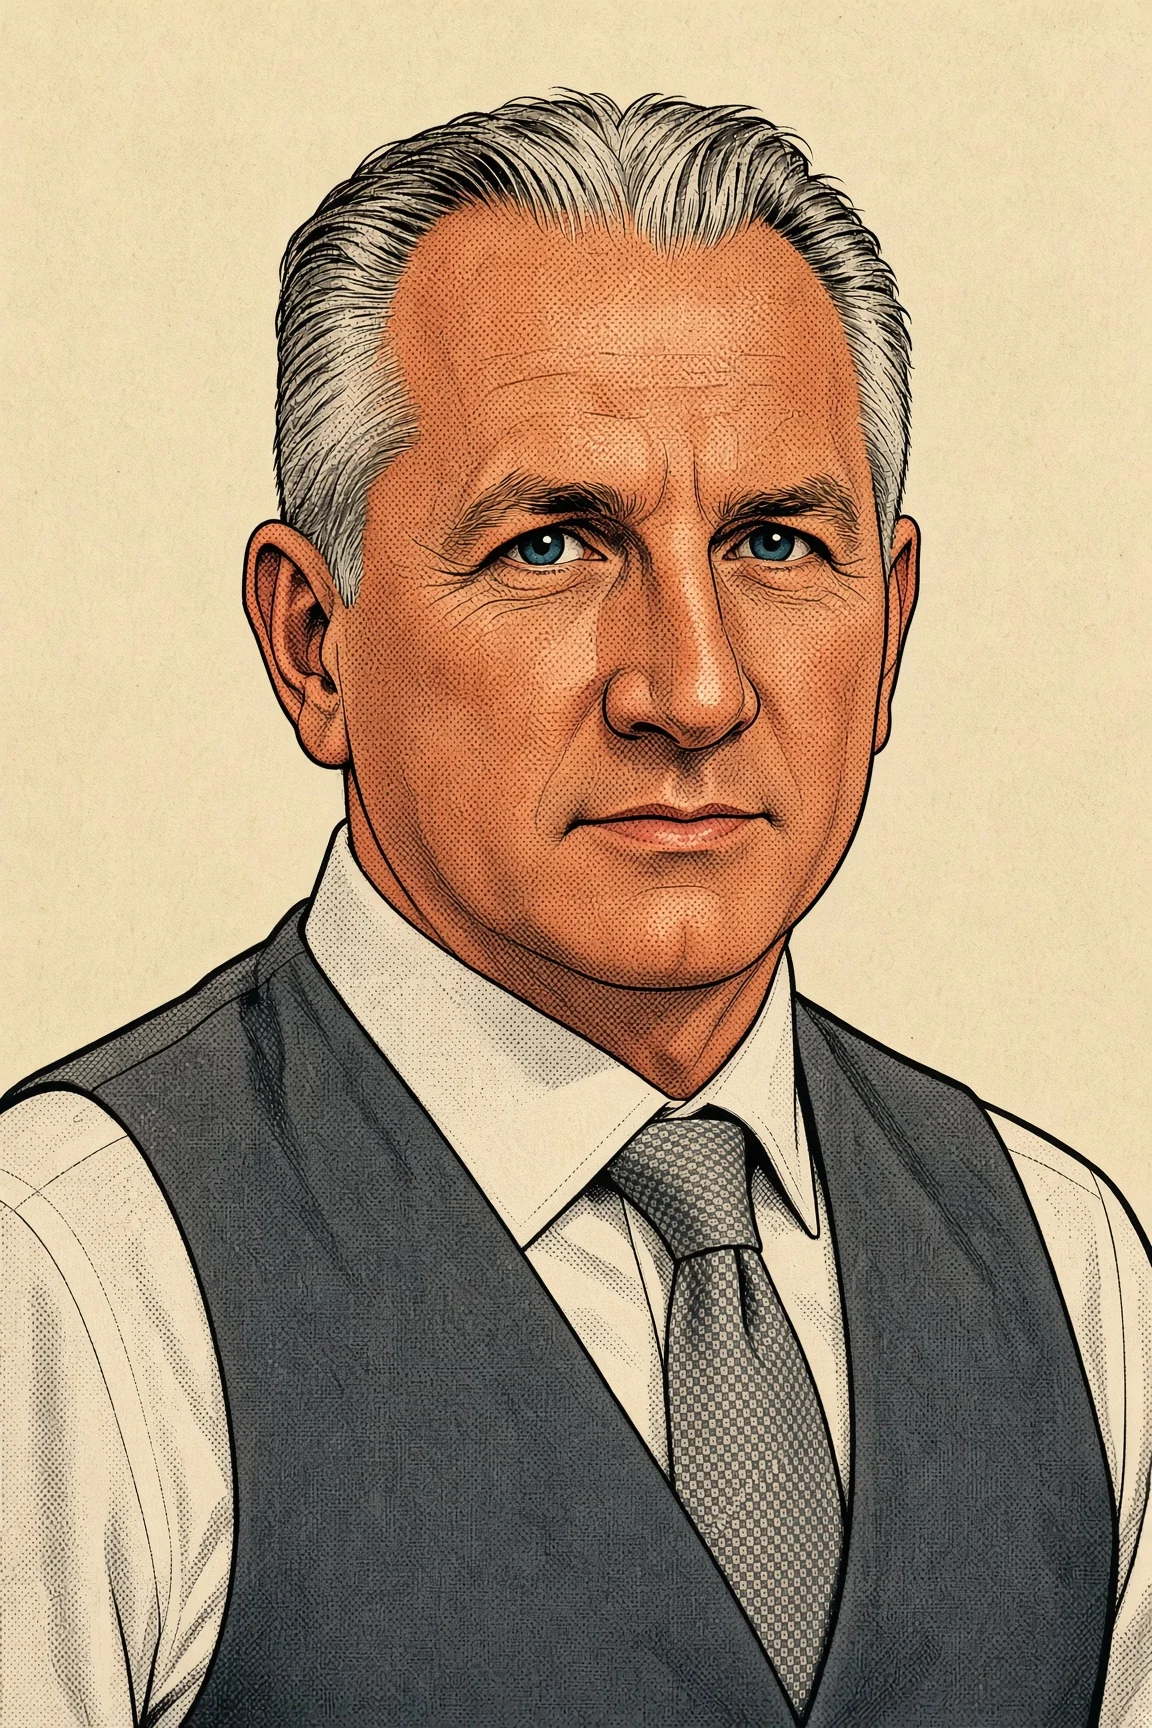
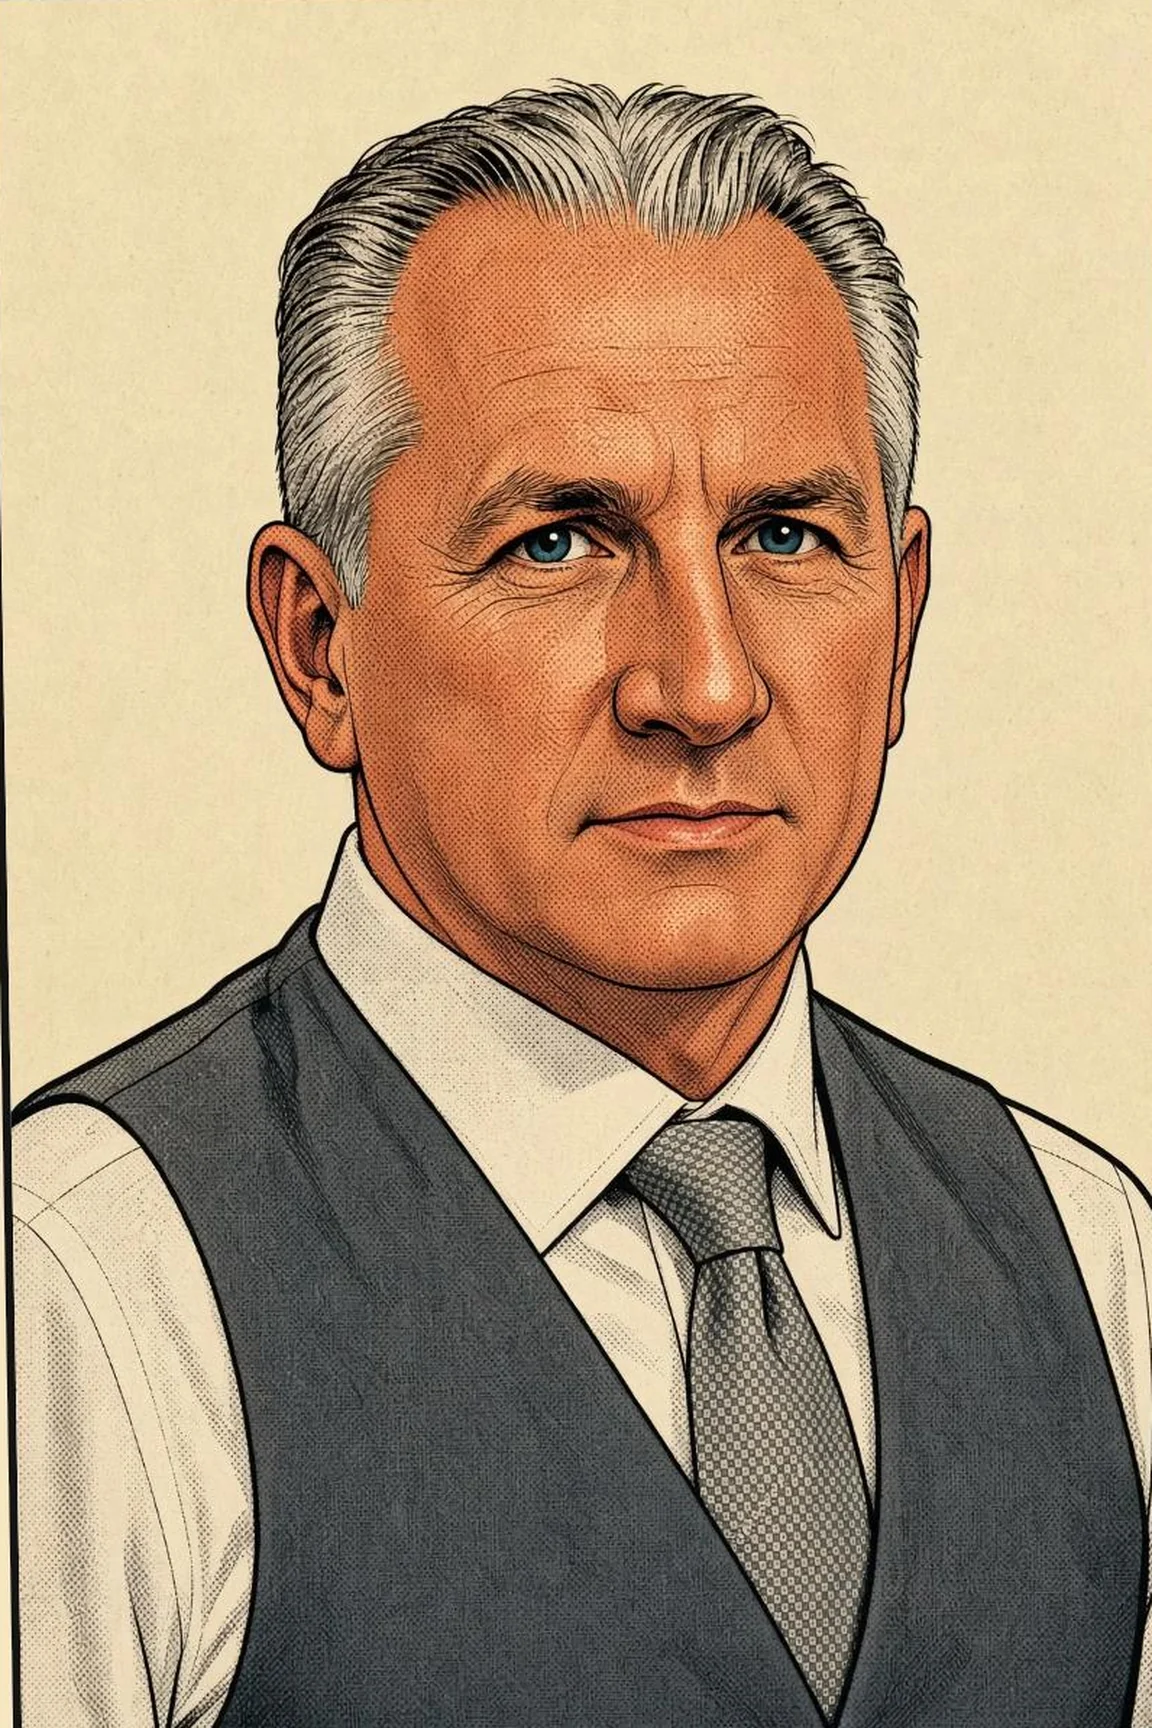
Use the touched-up chin on John's portrait

diff --git a/src/data/show.ts b/src/data/show.ts
@@ -185,7 +185,7 @@ export const hosts = {
     name: "John Mulligan",
     short: "John",
     role: "Host",
-    photo: "/images/john-comic.webp?v=2",
+    photo: "/images/john-comic.webp?v=3",
     location: "New York / New Jersey",
     now: "Goldman Sachs",
     headline: "Goldman Sachs",
